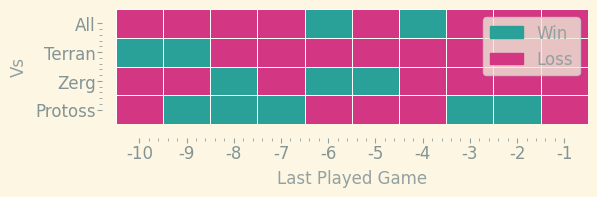
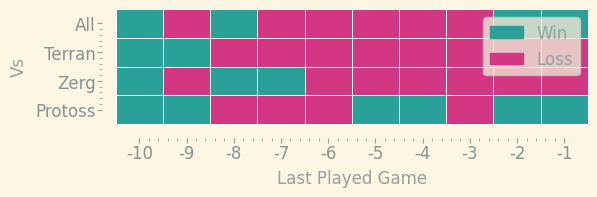
running on push

diff --git a/docs/index.md b/docs/index.md
@@ -18,15 +18,15 @@ layout: home
   <tbody>
     <tr>
       <td>Matches Played</td>
-      <td>1459</td>
+      <td>1463</td>
     </tr>
     <tr>
       <td>MMR Gained</td>
-      <td>13126</td>
+      <td>13183</td>
     </tr>
     <tr>
       <td>MMR lost</td>
-      <td>13211</td>
+      <td>13222</td>
     </tr>
     <tr>
       <td>Max MMR</td>
@@ -114,9 +114,9 @@ layout: home
 
 | Race    |   Wins |   Losses |   Total |   Win Rate (%) |   MMR Gained |   MMR Lost |
 |:--------|-------:|---------:|--------:|---------------:|-------------:|-----------:|
-| Protoss |    246 |      332 |     578 |        42.5606 |         4524 |       5510 |
+| Protoss |    246 |      334 |     580 |        42.4138 |         4524 |       5510 |
 | Terran  |    158 |      198 |     356 |        44.382  |         3841 |       2902 |
-| Zerg    |    280 |      212 |     492 |        56.9106 |         4536 |       4429 |
+| Zerg    |    282 |      212 |     494 |        57.085  |         4536 |       4429 |
 
 ![Games by Race](./assets/gm_hist.png)
 
